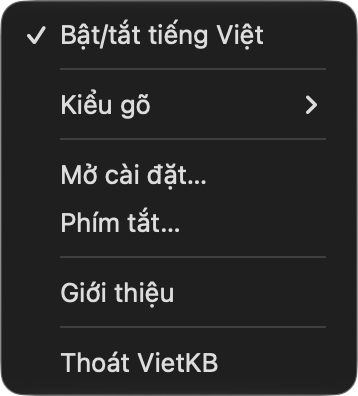
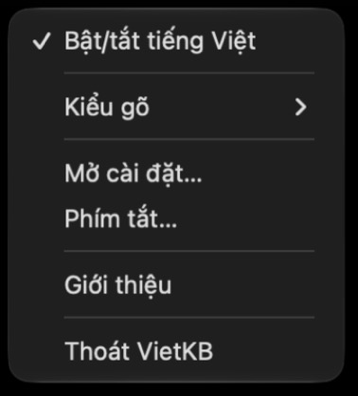
docs(site): clearer feature copy, hero wording, v1.0.0 download fallbacks, new Mac menu shot

diff --git a/site/index.html b/site/index.html
@@ -104,7 +104,7 @@
       <div class="hero-copy">
         <p class="eyebrow">Miễn phí · Mã nguồn mở</p>
         <h1 id="hero-title"><span class="type-line"><span class="type-ghost">Gõ tiếng Việt</span><span class="type-live" aria-hidden="true"></span></span><br><span class="h1-accent">trên Windows và&nbsp;Mac</span></h1>
-        <p class="kicker">Đặc biệt: nhận biết hơn 95% từ tiếng Anh thông dụng</p>
+        <p class="kicker">Gõ tiếng Anh giữa câu không bị biến dấu (đúng với hơn 95% từ thông dụng)</p>
         <p class="pitch"><span class="pitch-full">VietKB hỗ trợ Telex và VNI. Tiếng Anh, tên, tên tệp và code gõ giữa câu tiếng Việt được giữ nguyên, không cần tắt tiếng Việt. Ứng dụng chạy nền, chỉ để lại biểu tượng V/E trong khay hệ thống hoặc trên thanh menu.</span><span class="pitch-short">Tiếng Anh và code gõ giữa câu được giữ nguyên, không cần tắt tiếng Việt.</span></p>
         <p class="how"><strong>Cách dùng:</strong> gõ Telex hoặc VNI, chữ có dấu hiện ra ngay khi bạn gõ.</p>
 
@@ -115,7 +115,7 @@
             <span class="dl-label">Cài từ Microsoft Store</span>
             <span class="btn-meta">Khuyên dùng</span>
           </a>
-          <a class="btn btn-ghost" id="dl-primary" data-dl="win" href="https://github.com/thnonl/vietkb/releases/download/v0.2.7/VietKB_0.2.7_x64-setup.exe">
+          <a class="btn btn-ghost" id="dl-primary" data-dl="win" href="https://github.com/thnonl/vietkb/releases/download/v1.0.0/VietKB_1.0.0_x64-setup.exe">
             <span class="dl-label">Tải cho Windows (.exe)</span>
             <span class="btn-meta" data-release="installer">3,1 MB</span>
           </a>
@@ -129,7 +129,7 @@
 
         <p class="alt-dl" id="dl-alt">
           <span class="dl-alt-lead">Dùng máy Mac?</span>
-          <a data-dl="mac" href="https://github.com/thnonl/vietkb/releases/download/v0.2.7/VietKB_0.2.7_universal.dmg"><span class="dl-label">Tải cho macOS</span></a>
+          <a data-dl="mac" href="https://github.com/thnonl/vietkb/releases/download/v1.0.0/VietKB_1.0.0_universal.dmg"><span class="dl-label">Tải cho macOS</span></a>
           <span class="dl-alt-meta" data-release="dmg" hidden></span>
         </p>
 
@@ -141,7 +141,7 @@
         </p>
 
         <ul class="hero-specs">
-          <li><b>Siêu nhanh</b><span>mỗi phím xử lý dưới một phần triệu giây</span></li>
+          <li><b>Tức thì</b><span>mỗi phím xử lý dưới một phần triệu giây</span></li>
           <li><b>&lt; 5 MB</b><span>RAM khi chạy nền</span></li>
           <li><b>0,3 s</b><span>để khởi động</span></li>
         </ul>
@@ -239,58 +239,58 @@
           <span class="key-id" aria-hidden="true">01</span>
           <span class="badge-new">Đặc biệt</span>
           <h3>Tự nhận biết tiếng Anh và code</h3>
-          <p>Tiếng Anh, tên, tên tệp và code gõ giữa câu tiếng Việt được giữ đúng như bạn gõ, không cần gõ đúp hay tắt tiếng Việt. Hơn 95% trong 10.000 từ tiếng Anh thông dụng nhất được giữ đúng. Tiếng Việt gần như không đổi: 2 trên gần 4.700 từ. Đổi lại: <code>Ctrl+Shift+Z</code> (Mac: <code>⌃⇧Z</code>).</p>
-          <p class="card-note">Đo bằng Telex: 10.000 từ tiếng Anh thông dụng nhất, 200 tên tệp và đoạn code, 4.694 từ tiếng Việt thông dụng. Kho từ tiếp tục được mở rộng qua từng bản cập nhật.</p>
+          <p>Gõ từ tiếng Anh, tên riêng, tên tệp hay code giữa câu tiếng Việt, VietKB để nguyên chữ bạn gõ. Bạn không phải tắt tiếng Việt hay gõ lặp phím. Trong 10.000 từ tiếng Anh thông dụng nhất, hơn 95% được giữ nguyên. Từ tiếng Việt hầu như không bị ảnh hưởng: chỉ 2 trên gần 4.700 từ thông dụng bị nhận nhầm. Nếu gặp từ bị nhận nhầm, bấm <code>Ctrl+Shift+Z</code> (Mac: <code>⌃⇧Z</code>) để lấy lại đúng các phím vừa gõ.</p>
+          <p class="card-note">Số liệu đo bằng kiểu gõ Telex trên 10.000 từ tiếng Anh thông dụng nhất, 200 tên tệp và đoạn code, và 4.694 từ tiếng Việt thông dụng. Kho từ được bổ sung thêm qua từng bản cập nhật.</p>
         </li>
         <li class="card">
           <span class="key-id" aria-hidden="true">02</span>
           <h3>Telex và VNI</h3>
-          <p>Chọn Telex hoặc VNI, đặt dấu kiểu cũ (<code>hoà</code>) hoặc kiểu mới (<code>hòa</code>). Chữ gõ ra là Unicode dựng sẵn. Trên Windows có thêm Unicode tổ hợp (NFD).</p>
+          <p>Chọn gõ Telex hoặc VNI, và chọn đặt dấu kiểu cũ (<code>hoà</code>) hay kiểu mới (<code>hòa</code>). Chữ có dấu dùng bảng mã Unicode, mở được ở mọi ứng dụng hiện nay. Riêng Windows còn cho chọn Unicode tổ hợp (NFD).</p>
         </li>
         <li class="card">
           <span class="key-id" aria-hidden="true">03</span>
           <h3>Gõ tắt</h3>
-          <p>Tự đặt từ viết tắt, ví dụ gõ <code>vn</code> ra <code>Việt Nam</code>. Bảng gõ tắt xuất ra tệp được để mang sang máy khác. Có thể để gõ tắt hoạt động cả khi đang tắt tiếng Việt.</p>
+          <p>Tự đặt từ viết tắt, ví dụ gõ <code>vn</code> ra <code>Việt Nam</code>. Bạn có thể lưu bảng gõ tắt ra một tệp để mang sang máy khác. Gõ tắt có thể vẫn hoạt động khi bạn đang tắt tiếng Việt.</p>
         </li>
         <li class="card">
           <span class="key-id" aria-hidden="true">04</span>
           <h3>Riêng cho từng ứng dụng</h3>
-          <p>Luôn tắt tiếng Việt trong game hay terminal, hoặc dùng kiểu gõ khác cho một ứng dụng. VietKB cũng có thể nhớ bạn đã bật hay tắt tiếng Việt ở mỗi ứng dụng.</p>
+          <p>Đặt quy tắc riêng cho từng ứng dụng: luôn tắt tiếng Việt trong game hay terminal, hoặc dùng kiểu gõ khác ở một ứng dụng nào đó. VietKB cũng có thể nhớ trạng thái bật/tắt tiếng Việt của mỗi ứng dụng.</p>
         </li>
         <li class="card">
           <span class="key-id" aria-hidden="true">05</span>
           <h3>Phím tắt</h3>
-          <p>Mặc định bấm Ctrl+Shift (Windows) hoặc <span class="mac-keys">⌃⇧</span> (Mac) để bật tắt tiếng Việt. Đổi phím trong cửa sổ <em>Phím tắt…</em> <a href="#phim-tat">Xem bảng phím tắt</a>.</p>
+          <p>Mặc định, bấm Ctrl+Shift (Windows) hoặc <span class="mac-keys">⌃⇧</span> (Mac) để bật hoặc tắt tiếng Việt. Bạn có thể đổi phím trong cửa sổ <em>Phím tắt…</em>. <a href="#phim-tat">Xem bảng phím tắt</a></p>
         </li>
         <li class="card">
           <span class="key-id" aria-hidden="true">06</span>
           <h3>Gọn nhẹ</h3>
-          <p>Bộ cài Windows chỉ <span data-release="installer">3,1 MB</span>, chạy nền tốn chưa tới 5 MB RAM (số Task Manager hiển thị). Bản Mac là một tệp <code>.dmg</code> dùng cho cả máy chip Apple lẫn Intel.</p>
+          <p>Bộ cài Windows chỉ <span data-release="installer">3,1 MB</span>. Khi chạy nền, VietKB dùng dưới 5 MB RAM (theo Task Manager). Bản Mac là một tệp <code>.dmg</code> chạy được trên cả máy chip Apple lẫn Intel.</p>
         </li>
         <li class="card">
           <span class="key-id" aria-hidden="true">07</span>
           <h3>Biểu tượng V/E</h3>
-          <p>Biểu tượng trong khay (Windows) hoặc trên thanh menu (Mac) cho biết đang gõ tiếng Việt (V) hay tiếng Anh (E). Nhấp vào để chuyển, nhấp phải để mở menu. Khi có bản mới, biểu tượng hiện chấm báo.</p>
+          <p>Biểu tượng trong khay hệ thống (Windows) hoặc trên thanh menu (Mac) cho biết bạn đang gõ tiếng Việt (V) hay tiếng Anh (E). Nhấp vào để chuyển, nhấp chuột phải để mở menu. Khi có bản mới, biểu tượng hiện thêm một chấm báo.</p>
         </li>
         <li class="card">
           <span class="key-id" aria-hidden="true">08</span>
-          <h3>Viết hoa và sửa dấu</h3>
-          <p>Tự viết hoa đầu câu và tự sửa <code>ưo</code> thành <code>ươ</code>.</p>
+          <h3>Tự viết hoa, tự sửa dấu</h3>
+          <p>Có thể bật tự viết hoa chữ đầu câu, và tự sửa <code>ưo</code> thành <code>ươ</code>.</p>
         </li>
         <li class="card">
           <span class="key-id" aria-hidden="true">09</span>
-          <h3>Địa chỉ web, email</h3>
-          <p>Khi bạn gõ địa chỉ web, email hay đường dẫn tệp, VietKB không thêm dấu vào giữa.</p>
+          <h3>Địa chỉ web, email, đường dẫn</h3>
+          <p>Khi bạn gõ địa chỉ web, email hay đường dẫn tệp, VietKB không thêm dấu tiếng Việt vào đó.</p>
         </li>
         <li class="card">
           <span class="key-id" aria-hidden="true">10</span>
-          <h3>Ô mật khẩu, bàn phím ảo</h3>
-          <p>Trong ô mật khẩu, bấm phím nào ra phím đó, không bị thêm dấu. Trên Windows, gõ bằng bàn phím ảo của hệ thống vẫn ra tiếng Việt.</p>
+          <h3>Ô mật khẩu và bàn phím ảo</h3>
+          <p>Trong ô mật khẩu, bạn bấm phím nào ra đúng phím đó, không bị thêm dấu. Trên Windows, bàn phím ảo của hệ thống cũng gõ được tiếng Việt.</p>
         </li>
         <li class="card">
           <span class="key-id" aria-hidden="true">11</span>
           <h3>Âm báo</h3>
-          <p>Nếu muốn, VietKB phát một âm khi bật và một âm khác khi tắt tiếng Việt.</p>
+          <p>Nếu muốn, VietKB phát một âm báo khi bật tiếng Việt và một âm khác khi tắt.</p>
         </li>
       </ul>
     </div>
@@ -403,7 +403,6 @@
         </figure>
 
         <figure>
-          <!-- TODO(QA): mac-menu-dark.png predates M10 (left click now toggles; this menu opens on right/Control-click). Retake from the current build, then check the alt text. -->
           <div class="shot-frame shot-frame-menu">
             <img src="assets/mac-menu-dark.png" width="179" height="198" loading="lazy"
                  alt="Menu của VietKB trên thanh menu macOS: Bật/tắt tiếng Việt (đang chọn), Kiểu gõ, Mở cài đặt, Phím tắt, Giới thiệu, Thoát VietKB.">
@@ -431,7 +430,7 @@
         <li class="step">
           <span class="step-num" aria-hidden="true">1</span>
           <h4>Tải bộ cài</h4>
-          <p>Nên <a href="https://apps.microsoft.com/store/detail/9N5TNMLCZNT5?cid=DevShareMCLPCS">cài từ Microsoft Store</a>: cài và cập nhật tự động, không có cảnh báo ứng dụng chưa ký số. Hoặc bấm <a data-dl="win" href="https://github.com/thnonl/vietkb/releases/download/v0.2.7/VietKB_0.2.7_x64-setup.exe">Tải cho Windows</a> để cài bằng tệp <code>.exe</code>. Máy Windows ARM (Snapdragon) dùng <a data-dl="win-arm64" href="https://github.com/thnonl/vietkb/releases/download/v0.3.1/VietKB_0.3.1_arm64-setup.exe">bộ cài ARM64</a>, Windows 32-bit dùng <a data-dl="win-x86" href="https://github.com/thnonl/vietkb/releases/download/v0.3.1/VietKB_0.3.1_x86-setup.exe">bộ cài x86</a>.</p>
+          <p>Nên <a href="https://apps.microsoft.com/store/detail/9N5TNMLCZNT5?cid=DevShareMCLPCS">cài từ Microsoft Store</a>: cài và cập nhật tự động, không có cảnh báo ứng dụng chưa ký số. Hoặc bấm <a data-dl="win" href="https://github.com/thnonl/vietkb/releases/download/v1.0.0/VietKB_1.0.0_x64-setup.exe">Tải cho Windows</a> để cài bằng tệp <code>.exe</code>. Máy Windows ARM (Snapdragon) dùng <a data-dl="win-arm64" href="https://github.com/thnonl/vietkb/releases/download/v1.0.0/VietKB_1.0.0_arm64-setup.exe">bộ cài ARM64</a>, Windows 32-bit dùng <a data-dl="win-x86" href="https://github.com/thnonl/vietkb/releases/download/v1.0.0/VietKB_1.0.0_x86-setup.exe">bộ cài x86</a>.</p>
         </li>
         <li class="step">
           <span class="step-num" aria-hidden="true">2</span>
@@ -461,7 +460,7 @@
         <li class="step">
           <span class="step-num" aria-hidden="true">1</span>
           <h4>Tải về</h4>
-          <p>Bấm <a data-dl="mac" href="https://github.com/thnonl/vietkb/releases/download/v0.2.7/VietKB_0.2.7_universal.dmg">Tải cho macOS</a>, mở tệp <code>.dmg</code> vừa tải và kéo <em>VietKB</em> vào thư mục <em>Applications</em>.</p>
+          <p>Bấm <a data-dl="mac" href="https://github.com/thnonl/vietkb/releases/download/v1.0.0/VietKB_1.0.0_universal.dmg">Tải cho macOS</a>, mở tệp <code>.dmg</code> vừa tải và kéo <em>VietKB</em> vào thư mục <em>Applications</em>.</p>
         </li>
         <li class="step">
           <span class="step-num" aria-hidden="true">2</span>

diff --git a/site/en/index.html b/site/en/index.html
@@ -102,7 +102,7 @@
       <div class="hero-copy">
         <p class="eyebrow">Free · Open source</p>
         <h1 id="hero-title"><span class="type-line"><span class="type-ghost">Type Vietnamese</span><span class="type-live" aria-hidden="true"></span></span><br><span class="h1-accent">on Windows and&nbsp;Mac</span></h1>
-        <p class="kicker">Highlight: recognizes over 95% of common English words</p>
+        <p class="kicker">English typed mid-sentence stays untouched (over 95% of common words)</p>
         <p class="pitch"><span class="pitch-full">VietKB supports Telex and VNI. English words, names, file names and code typed in Vietnamese text stay as you typed them, with no need to switch Vietnamese off. It runs in the background, with just a V/E icon in the system tray or the menu bar.</span><span class="pitch-short">English and code typed mid-sentence stay as typed, no need to switch Vietnamese off.</span></p>
         <p class="how"><strong>How it works:</strong> type with Telex or VNI, and accented letters appear as you type.</p>
 
@@ -113,7 +113,7 @@
             <span class="dl-label">Get it from Microsoft Store</span>
             <span class="btn-meta">Recommended</span>
           </a>
-          <a class="btn btn-ghost" id="dl-primary" data-dl="win" href="https://github.com/thnonl/vietkb/releases/download/v0.2.7/VietKB_0.2.7_x64-setup.exe">
+          <a class="btn btn-ghost" id="dl-primary" data-dl="win" href="https://github.com/thnonl/vietkb/releases/download/v1.0.0/VietKB_1.0.0_x64-setup.exe">
             <span class="dl-label">Download for Windows (.exe)</span>
             <span class="btn-meta" data-release="installer">3.1 MB</span>
           </a>
@@ -127,7 +127,7 @@
 
         <p class="alt-dl" id="dl-alt">
           <span class="dl-alt-lead">On a Mac?</span>
-          <a data-dl="mac" href="https://github.com/thnonl/vietkb/releases/download/v0.2.7/VietKB_0.2.7_universal.dmg"><span class="dl-label">Download for macOS</span></a>
+          <a data-dl="mac" href="https://github.com/thnonl/vietkb/releases/download/v1.0.0/VietKB_1.0.0_universal.dmg"><span class="dl-label">Download for macOS</span></a>
           <span class="dl-alt-meta" data-release="dmg" hidden></span>
         </p>
 
@@ -139,7 +139,7 @@
         </p>
 
         <ul class="hero-specs">
-          <li><b>Super fast</b><span>each key handled in under a millionth of a second</span></li>
+          <li><b>Instant</b><span>each key handled in under a millionth of a second</span></li>
           <li><b>&lt; 5 MB</b><span>of RAM in the background</span></li>
           <li><b>0.3 s</b><span>to start</span></li>
         </ul>
@@ -237,33 +237,33 @@
           <span class="key-id" aria-hidden="true">01</span>
           <span class="badge-new">Highlight</span>
           <h3>Recognize English and code</h3>
-          <p>English words, names, file names and code typed in Vietnamese text stay as you typed them, with no doubled keys and no switching Vietnamese off. Over 95% of the 10,000 most common English words are kept as typed. Vietnamese barely changes: 2 of nearly 4,700 common words. Press <code>Ctrl+Shift+Z</code> (Mac: <code>⌃⇧Z</code>) to switch back.</p>
-          <p class="card-note">Tested with Telex on the 10,000 most common English words, 200 file names and code snippets, and 4,694 common Vietnamese words. The word list keeps growing with every update.</p>
+          <p>Type an English word, a name, a file name or code in the middle of a Vietnamese sentence and VietKB leaves it exactly as you typed it. You do not have to switch Vietnamese off or repeat keys. Over 95% of the 10,000 most common English words are left untouched. Vietnamese words are barely affected: only 2 of nearly 4,700 common words are misread. If a word does get misread, press <code>Ctrl+Shift+Z</code> (Mac: <code>⌃⇧Z</code>) to get back the keys you just typed.</p>
+          <p class="card-note">Measured with Telex on the 10,000 most common English words, 200 file names and code snippets, and 4,694 common Vietnamese words. The word list grows with every update.</p>
         </li>
         <li class="card">
           <span class="key-id" aria-hidden="true">02</span>
           <h3>Telex and VNI</h3>
-          <p>Choose Telex or VNI, and old-style (<code>hoà</code>) or new-style (<code>hòa</code>) tone placement. Text comes out as precomposed Unicode. On Windows you can also pick decomposed Unicode (NFD).</p>
+          <p>Type with Telex or VNI, and choose old-style (<code>hoà</code>) or new-style (<code>hòa</code>) tone mark placement. Accented letters use standard Unicode, which every modern app reads. Windows also offers decomposed Unicode (NFD).</p>
         </li>
         <li class="card">
           <span class="key-id" aria-hidden="true">03</span>
           <h3>Text expansion</h3>
-          <p>Set your own abbreviations, for example <code>vn</code> for <code>Việt Nam</code>. Export the list to a file to take it to another computer. Expansion can keep working while Vietnamese is off.</p>
+          <p>Define your own abbreviations, for example <code>vn</code> becomes <code>Việt Nam</code>. Save the list to a file to move it to another computer. Expansion can keep working while Vietnamese is off.</p>
         </li>
         <li class="card">
           <span class="key-id" aria-hidden="true">04</span>
           <h3>Per-app settings</h3>
-          <p>Keep Vietnamese off in games or the terminal, or use a different typing method in one app. VietKB can also remember whether you had Vietnamese on or off in each app.</p>
+          <p>Set rules for individual apps: always keep Vietnamese off in games or the terminal, or use a different typing method in one app. VietKB can also remember whether Vietnamese was on or off in each app.</p>
         </li>
         <li class="card">
           <span class="key-id" aria-hidden="true">05</span>
           <h3>Shortcuts</h3>
-          <p>Press Ctrl+Shift (Windows) or <span class="mac-keys">⌃⇧</span> (Mac) to turn Vietnamese on or off. Change the keys in the <em>Shortcuts…</em> window. <a href="#shortcuts">See all shortcuts</a>.</p>
+          <p>By default, press Ctrl+Shift (Windows) or <span class="mac-keys">⌃⇧</span> (Mac) to turn Vietnamese on or off. You can change the keys in the <em>Shortcuts…</em> window. <a href="#shortcuts">See all shortcuts</a></p>
         </li>
         <li class="card">
           <span class="key-id" aria-hidden="true">06</span>
           <h3>Small</h3>
-          <p>The Windows installer is only <span data-release="installer">3.1 MB</span>, and the app uses less than 5 MB of RAM in the background (as Task Manager shows it). The Mac version is one <code>.dmg</code> for both Apple silicon and Intel.</p>
+          <p>The Windows installer is only <span data-release="installer">3.1 MB</span>. Running in the background, VietKB uses under 5 MB of RAM (as shown in Task Manager). The Mac version is a single <code>.dmg</code> that runs on both Apple silicon and Intel.</p>
         </li>
         <li class="card">
           <span class="key-id" aria-hidden="true">07</span>
@@ -272,23 +272,23 @@
         </li>
         <li class="card">
           <span class="key-id" aria-hidden="true">08</span>
-          <h3>Capitals and vowel fixes</h3>
-          <p>It can also capitalize new sentences and fix <code>ưo</code> to <code>ươ</code>.</p>
+          <h3>Auto-capitalize, auto-fix</h3>
+          <p>You can turn on automatic capital letters at the start of a sentence, and automatic correction of <code>ưo</code> to <code>ươ</code>.</p>
         </li>
         <li class="card">
           <span class="key-id" aria-hidden="true">09</span>
-          <h3>Web and email addresses</h3>
-          <p>When you type a web address, an email address or a file path, VietKB adds no tone marks to it.</p>
+          <h3>Web addresses, email, file paths</h3>
+          <p>When you type a web address, an email address or a file path, VietKB does not add Vietnamese accents to it.</p>
         </li>
         <li class="card">
           <span class="key-id" aria-hidden="true">10</span>
-          <h3>Passwords, on-screen keyboard</h3>
-          <p>In password fields, every key comes through as pressed, with no tone marks. On Windows, the system on-screen keyboard types Vietnamese too.</p>
+          <h3>Password fields and on-screen keyboard</h3>
+          <p>In password fields, each key you press is typed as is, with no accents added. On Windows, the system on-screen keyboard also types Vietnamese.</p>
         </li>
         <li class="card">
           <span class="key-id" aria-hidden="true">11</span>
           <h3>Sounds</h3>
-          <p>If you like, VietKB plays one sound when Vietnamese turns on and another when it turns off.</p>
+          <p>If you like, VietKB plays one sound when Vietnamese turns on and a different one when it turns off.</p>
         </li>
       </ul>
     </div>
@@ -401,7 +401,6 @@
         </figure>
 
         <figure>
-          <!-- TODO(QA): mac-menu-dark.png predates M10 (left click now toggles; this menu opens on right/Control-click). Retake from the current build, then check the alt text. -->
           <div class="shot-frame shot-frame-menu">
             <img src="../assets/mac-menu-dark.png" width="179" height="198" loading="lazy"
                  alt="VietKB menu in the macOS menu bar, in Vietnamese: Vietnamese on/off (checked), Typing method, Open settings, Shortcuts, About, Quit VietKB.">
@@ -429,7 +428,7 @@
         <li class="step">
           <span class="step-num" aria-hidden="true">1</span>
           <h4>Download the installer</h4>
-          <p>We recommend <a href="https://apps.microsoft.com/store/detail/9N5TNMLCZNT5?cid=DevShareMCLPCS">getting it from Microsoft Store</a>: it installs and updates automatically, with no unsigned-app warning. Or click <a data-dl="win" href="https://github.com/thnonl/vietkb/releases/download/v0.2.7/VietKB_0.2.7_x64-setup.exe">Download for Windows</a> to use the <code>.exe</code> installer. On Windows on Arm (Snapdragon), use the <a data-dl="win-arm64" href="https://github.com/thnonl/vietkb/releases/download/v0.3.1/VietKB_0.3.1_arm64-setup.exe">ARM64 installer</a>; on 32-bit Windows, the <a data-dl="win-x86" href="https://github.com/thnonl/vietkb/releases/download/v0.3.1/VietKB_0.3.1_x86-setup.exe">x86 installer</a>.</p>
+          <p>We recommend <a href="https://apps.microsoft.com/store/detail/9N5TNMLCZNT5?cid=DevShareMCLPCS">getting it from Microsoft Store</a>: it installs and updates automatically, with no unsigned-app warning. Or click <a data-dl="win" href="https://github.com/thnonl/vietkb/releases/download/v1.0.0/VietKB_1.0.0_x64-setup.exe">Download for Windows</a> to use the <code>.exe</code> installer. On Windows on Arm (Snapdragon), use the <a data-dl="win-arm64" href="https://github.com/thnonl/vietkb/releases/download/v1.0.0/VietKB_1.0.0_arm64-setup.exe">ARM64 installer</a>; on 32-bit Windows, the <a data-dl="win-x86" href="https://github.com/thnonl/vietkb/releases/download/v1.0.0/VietKB_1.0.0_x86-setup.exe">x86 installer</a>.</p>
         </li>
         <li class="step">
           <span class="step-num" aria-hidden="true">2</span>
@@ -459,7 +458,7 @@
         <li class="step">
           <span class="step-num" aria-hidden="true">1</span>
           <h4>Download</h4>
-          <p>Click <a data-dl="mac" href="https://github.com/thnonl/vietkb/releases/download/v0.2.7/VietKB_0.2.7_universal.dmg">Download for macOS</a>, open the <code>.dmg</code> and drag <em>VietKB</em> into <em>Applications</em>.</p>
+          <p>Click <a data-dl="mac" href="https://github.com/thnonl/vietkb/releases/download/v1.0.0/VietKB_1.0.0_universal.dmg">Download for macOS</a>, open the <code>.dmg</code> and drag <em>VietKB</em> into <em>Applications</em>.</p>
         </li>
         <li class="step">
           <span class="step-num" aria-hidden="true">2</span>
